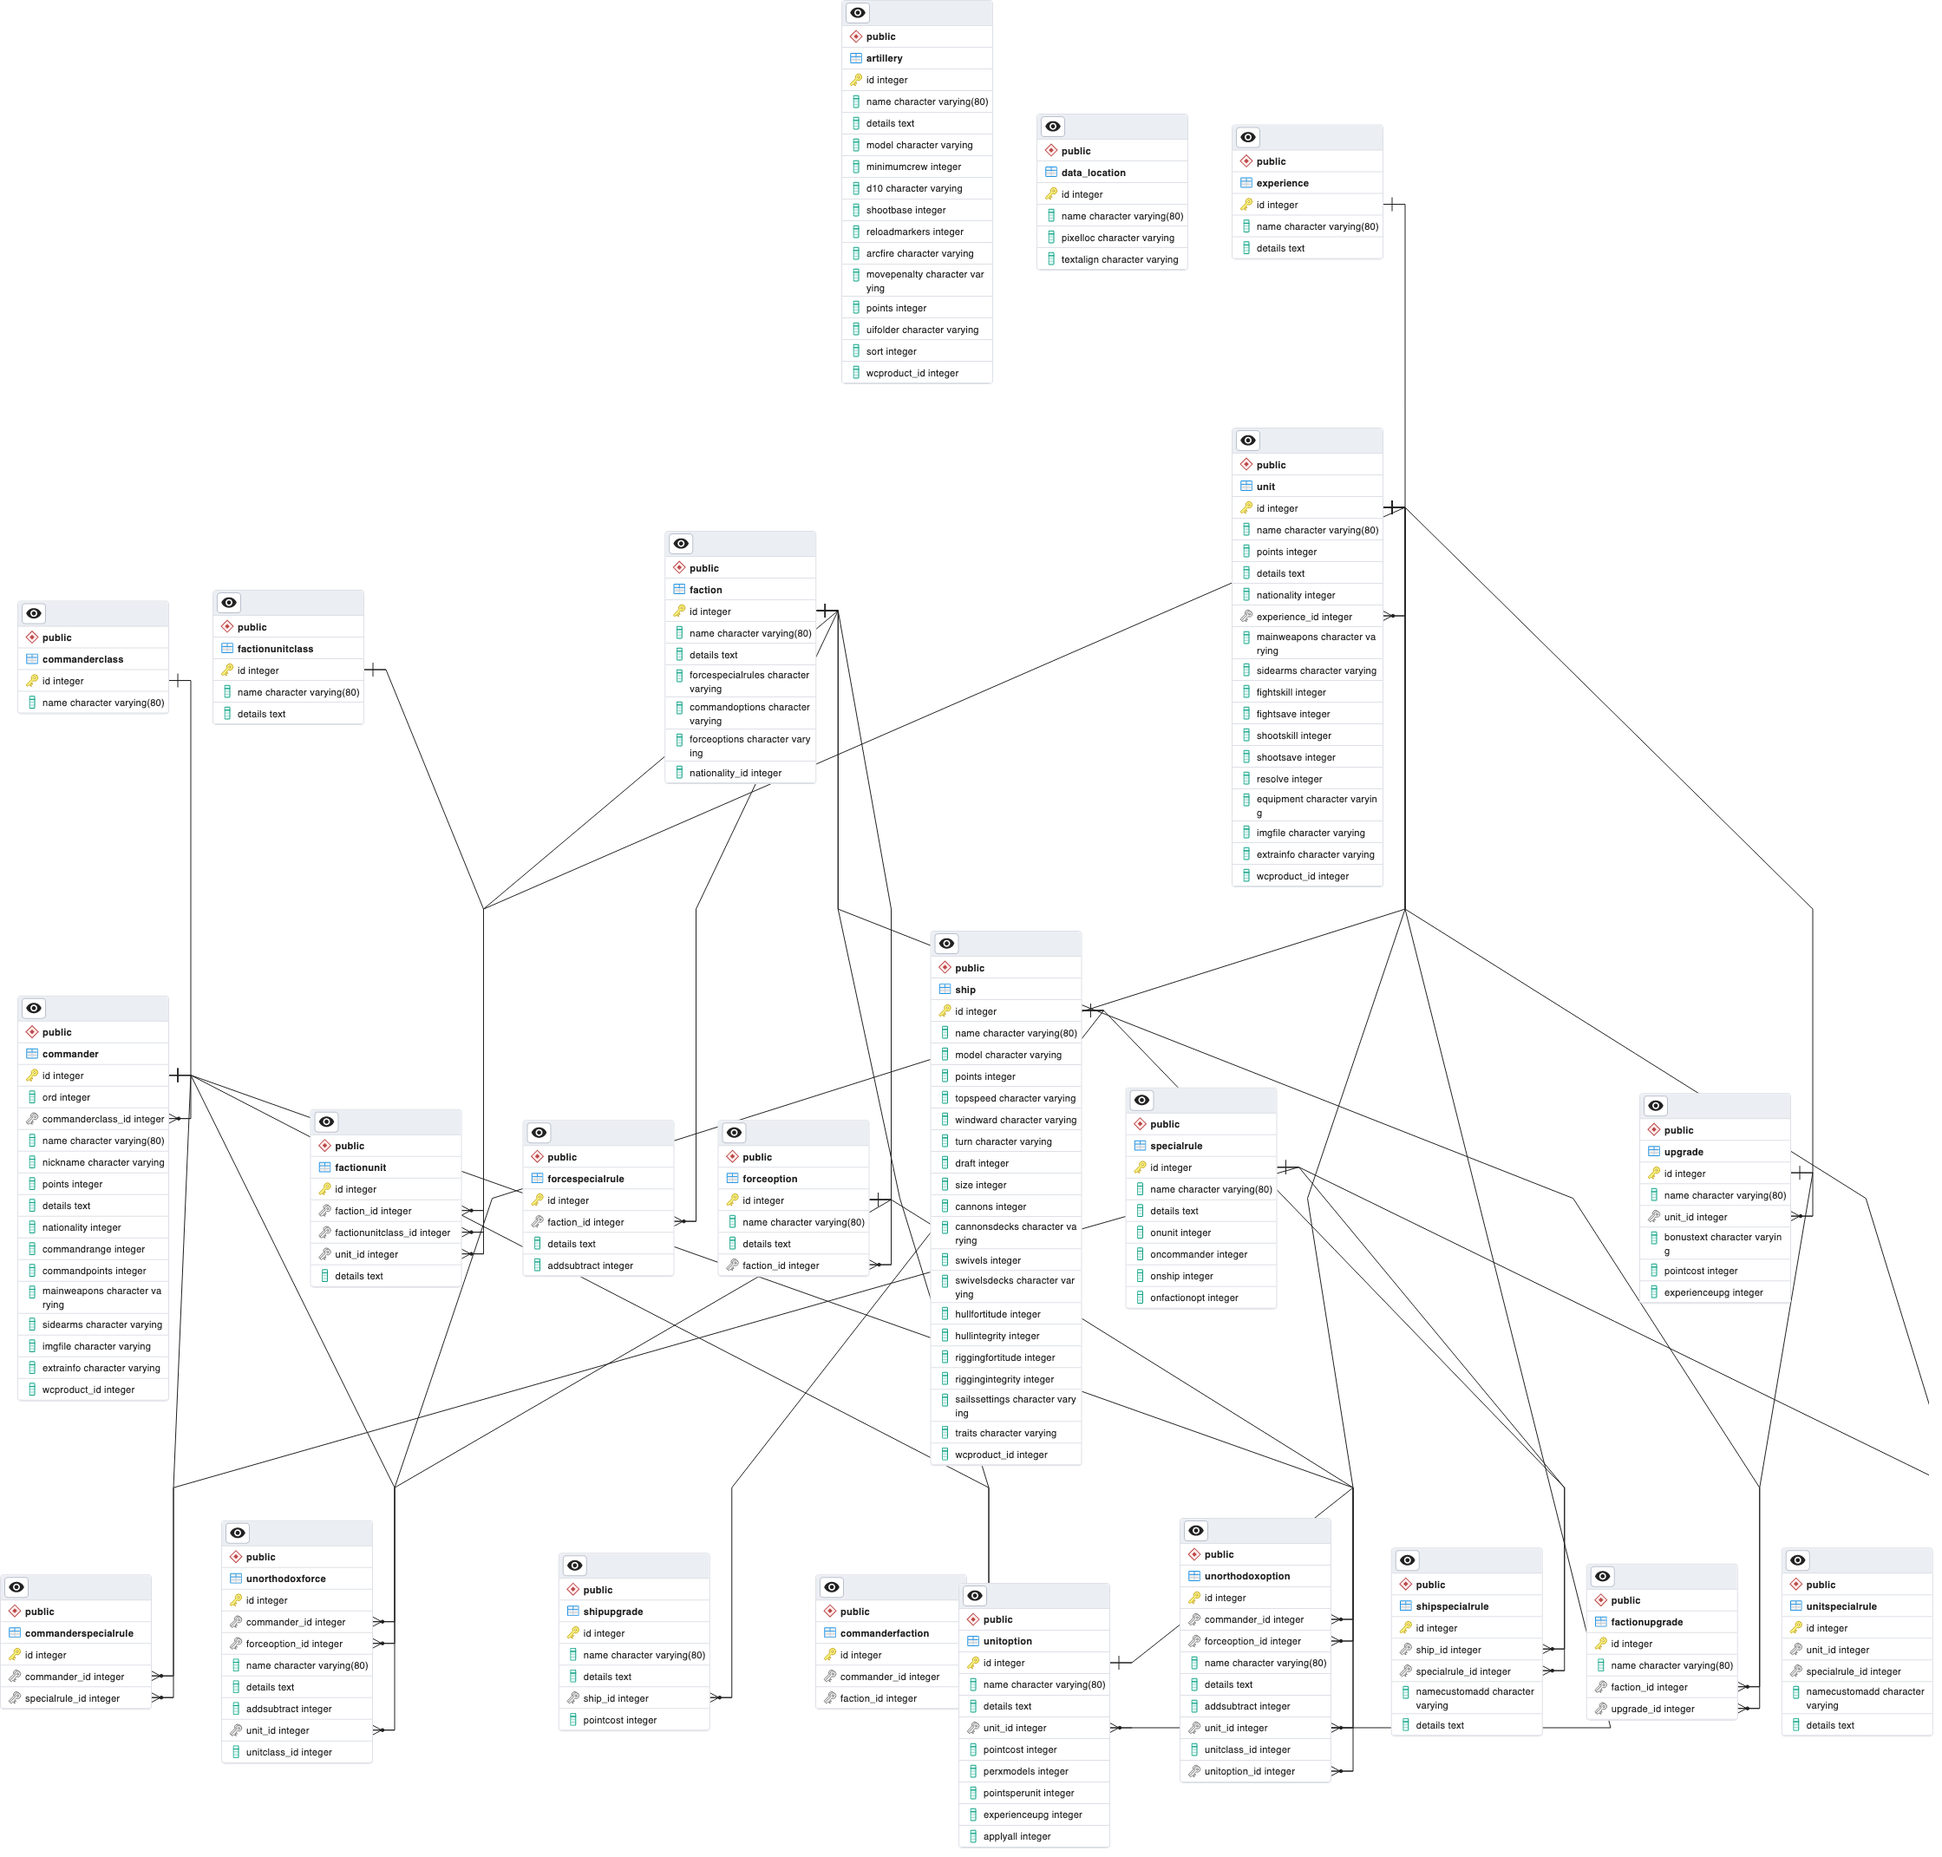
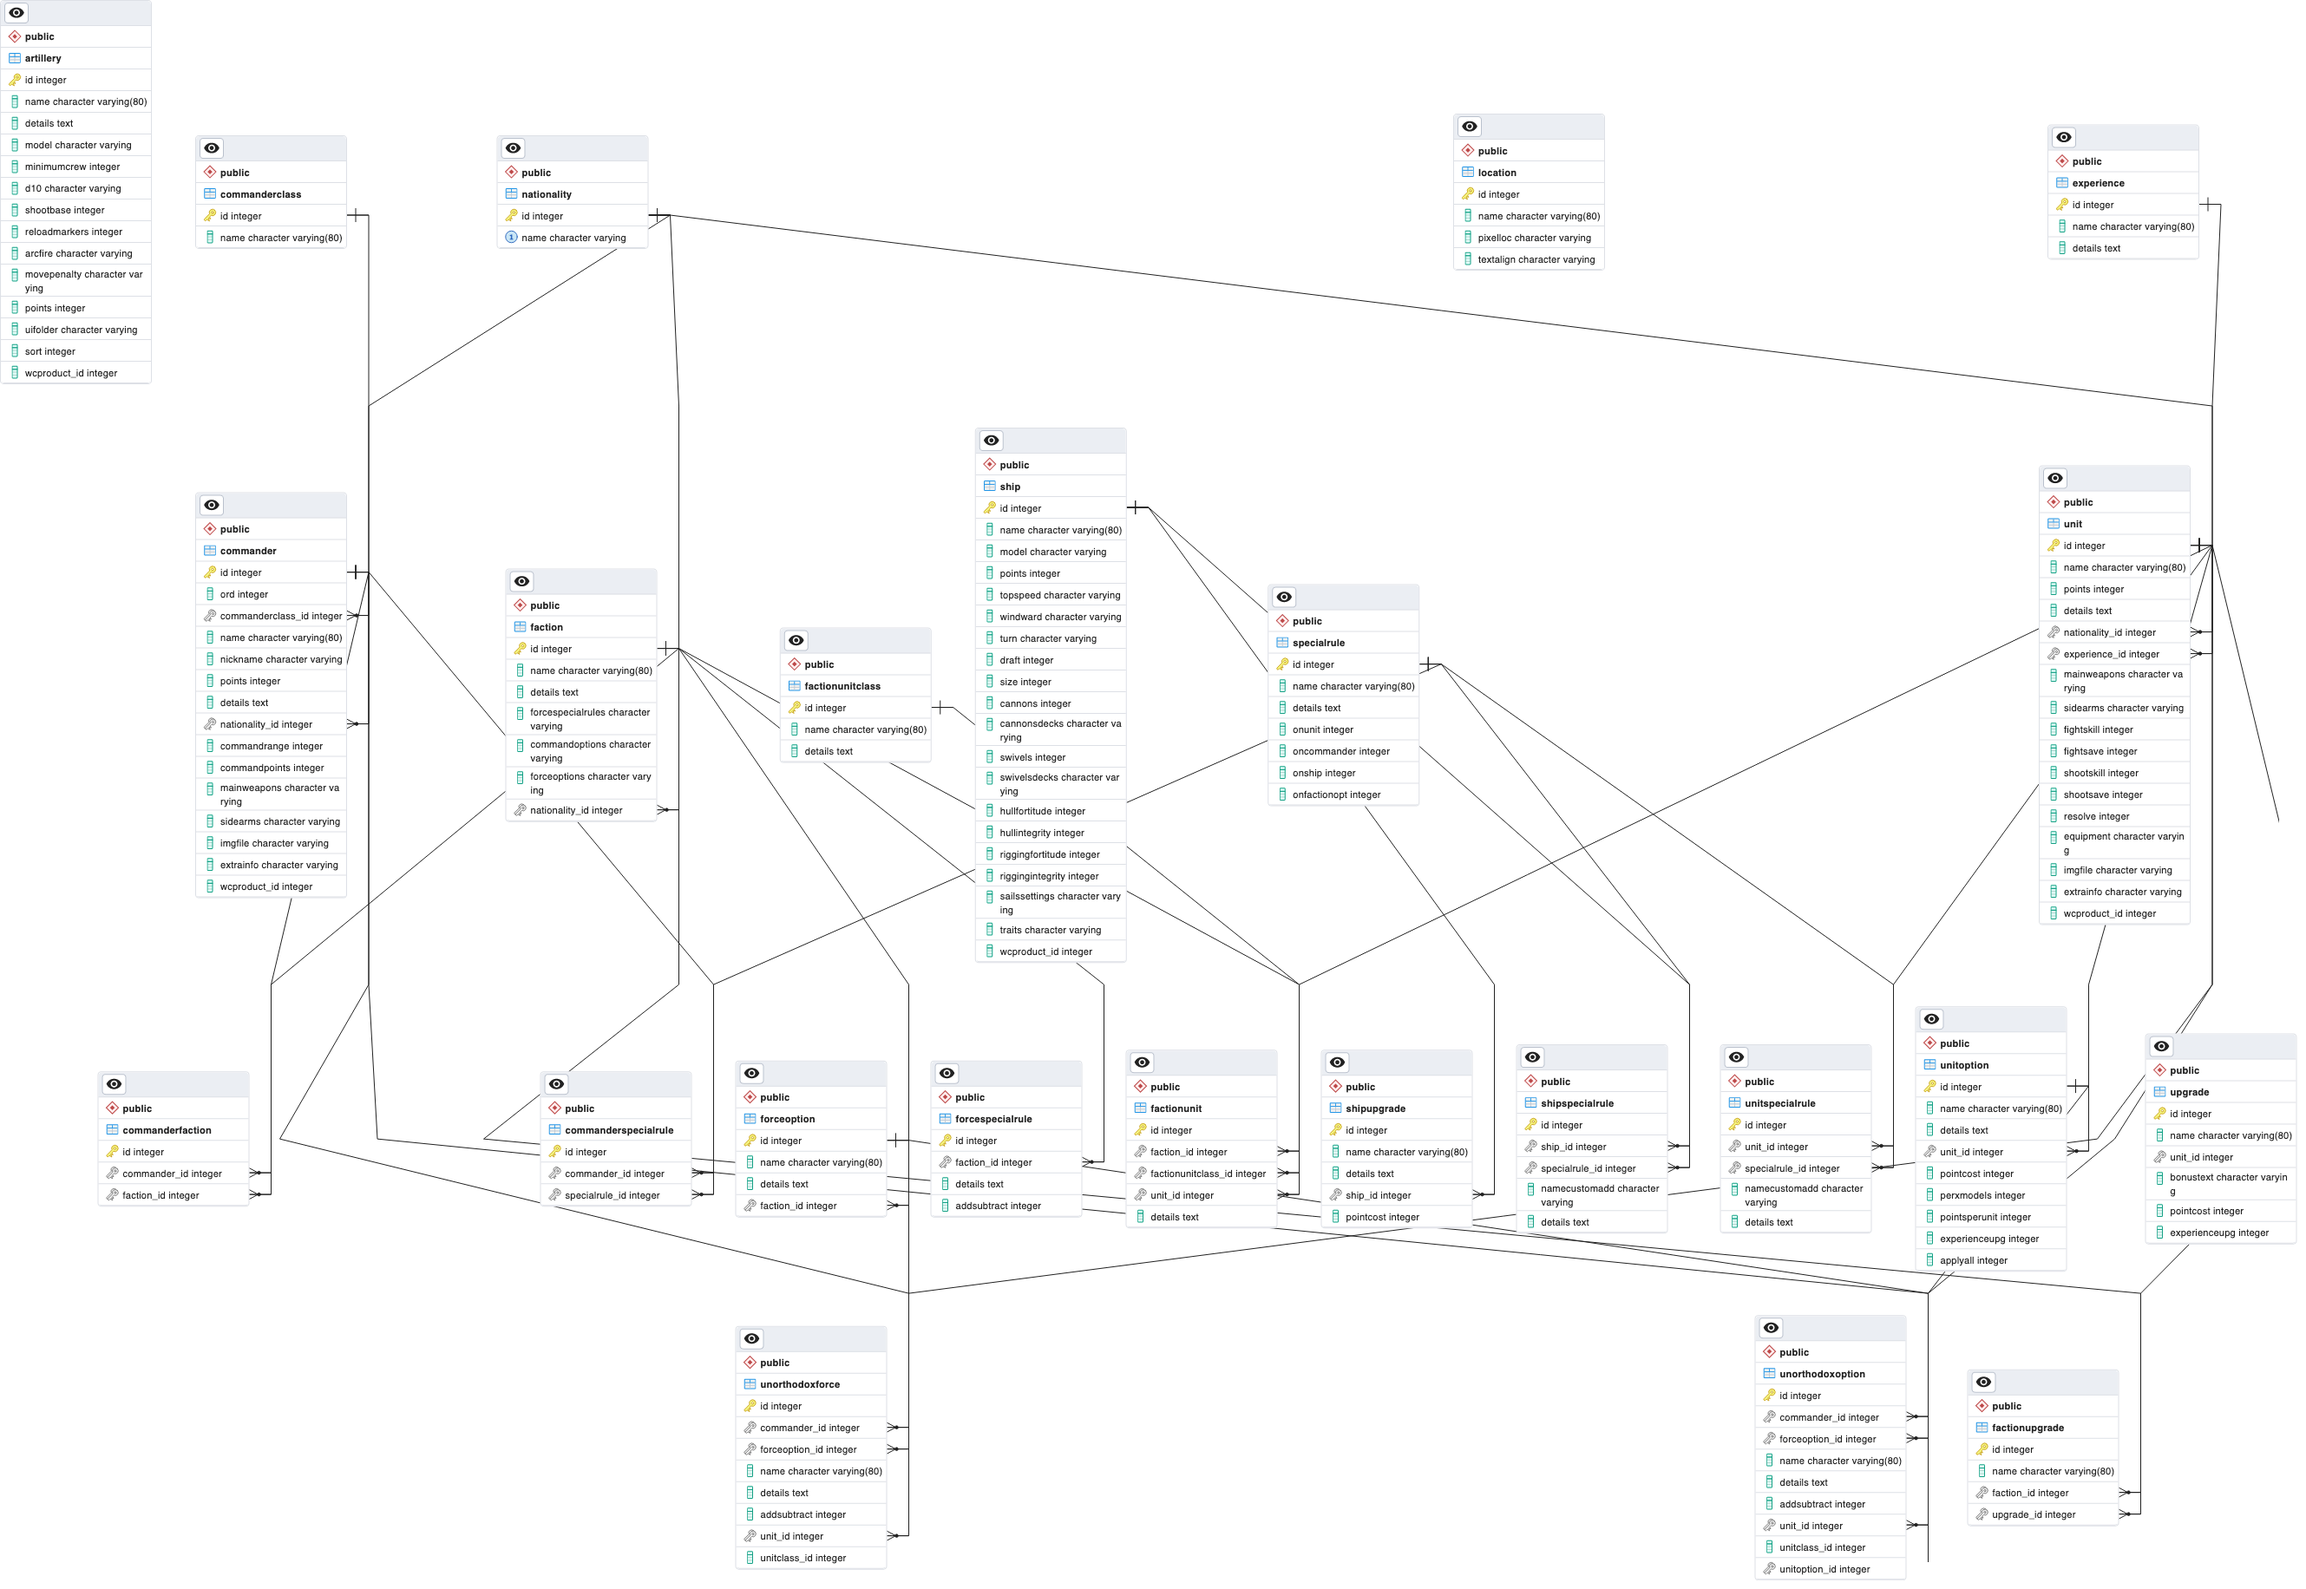
Changed model.py filename to models.py and added relationships. Updated ERD in supplemental folder.

diff --git a/models.py b/models.py
@@ -38,12 +38,14 @@ class Commander(db.Model):
                    primary_key=True,
                    autoincrement=True)
     ord = db.Column(db.Integer)
-    commanderclass = db.Column(db.Integer)
+    commanderclass_id = db.Column(db.Integer, db.ForeignKey(
+        'commanderclass.id', ondelete='SET NULL'))
     name = db.Column(db.VARCHAR)
     nickname = db.Column(db.VARCHAR)
     points = db.Column(db.Integer)
     details = db.Column(db.Text)
-    nationality_id = db.Column(db.Integer)
+    nationality_id = db.Column(db.Integer, db.ForeignKey(
+        'nationality.id', ondelete='SET NULL'))
     commandrange = db.Column(db.Integer)
     commandpoints = db.Column(db.Integer)
     mainweapons = db.Column(db.VARCHAR)
@@ -78,8 +80,10 @@ class CommanderFaction(db.Model):
     id = db.Column(db.Integer,
                    primary_key=True,
                    autoincrement=True)
-    commander_id = db.Column(db.Integer)
-    faction_id = db.Column(db.Integer)
+    commander_id = db.Column(db.Integer, db.ForeignKey(
+        'commander.id', ondelete='CASCADE'))
+    faction_id = db.Column(db.Integer, db.ForeignKey(
+        'faction.id', ondelete='CASCADE'))
 
     def __repr__(self):
         return f'<CommanderFaction {self.id}>'
@@ -93,8 +97,10 @@ class CommanderSpecialrule(db.Model):
     id = db.Column(db.Integer,
                    primary_key=True,
                    autoincrement=True)
-    commander_id = db.Column(db.Integer)
-    specialrule_id = db.Column(db.Integer)
+    commander_id = db.Column(db.Integer, db.ForeignKey(
+        'commander.id', ondelete='CASCADE'))
+    specialrule_id = db.Column(db.Integer, db.ForeignKey(
+        'specialrule.id', ondelete='CASCADE'))
 
     def __repr__(self):
         return f'<CommanderSpecialrule {self.id}>'
@@ -128,7 +134,19 @@ class Faction(db.Model):
     forcespecialrules = db.Column(db.VARCHAR)
     commandoptions = db.Column(db.VARCHAR)
     forceoptions = db.Column(db.VARCHAR)
-    nationality_id = db.Column(db.Integer)
+    nationality_id = db.Column(db.Integer, db.ForeignKey(
+        'nationality.id', ondelete='SET NULL'))
+
+    commander = db.relationship(
+        'Commander',
+        secondary = 'commanderfaction',
+        backref = 'faction'
+    )
+    upgrade = db.relationship(
+        'Upgrade',
+        secondary = 'factionupgrade',
+        backref = 'faction'
+    )
 
     def __repr__(self):
         return f'<Faction {self.id} {self.name} ({self.nationality.name})>'
@@ -142,9 +160,12 @@ class FactionUnit(db.Model):
     id = db.Column(db.Integer,
                    primary_key=True,
                    autoincrement=True)
-    faction_id = db.Column(db.Integer)
-    factionUnitclass = db.Column(db.Integer)
-    unit_id = db.Column(db.Integer)
+    faction_id = db.Column(db.Integer, db.ForeignKey(
+        'faction.id', ondelete='CASCADE'))
+    factionunitclass = db.Column(db.Integer, db.ForeignKey(
+        'factionunitclass.id', ondelete='CASCADE'))
+    unit_id = db.Column(db.Integer, db.ForeignKey(
+        'unit.id', ondelete='CASCADE'))
     details = db.Column(db.Text)
 
     def __repr__(self):
@@ -175,8 +196,10 @@ class FactionUpgrade(db.Model):
                    primary_key=True,
                    autoincrement=True)
     name = db.Column(db.VARCHAR)
-    faction_id = db.Column(db.Integer)
-    upgrade_id = db.Column(db.Integer)
+    faction_id = db.Column(db.Integer, db.ForeignKey(
+        'faction.id', ondelete='CASCADE'))
+    upgrade_id = db.Column(db.Integer, db.ForeignKey(
+        'upgrade.id', ondelete='CASCADE'))
 
     def __repr__(self):
         return f'<FactionUpgrade {self.id} {self.name}>'
@@ -192,7 +215,8 @@ class ForceOption(db.Model):
                    autoincrement=True)
     name = db.Column(db.VARCHAR)
     details = db.Column(db.Text)
-    faction_id = db.Column(db.Integer)
+    faction_id = db.Column(db.Integer, db.ForeignKey(
+        'faction.id', ondelete='CASCADE'))
 
     def __repr__(self):
         return f'<ForceOption {self.id} {self.name}>'
@@ -206,7 +230,8 @@ class ForceSpecialrule(db.Model):
     id = db.Column(db.Integer,
                    primary_key=True,
                    autoincrement=True)
-    faction_id = db.Column(db.Integer)
+    faction_id = db.Column(db.Integer, db.ForeignKey(
+        'faction.id', ondelete='CASCADE'))
     details = db.Column(db.Text)
     addsubstract = db.Column(db.Integer)
 
@@ -272,6 +297,12 @@ class Ship(db.Model):
     traits = db.Column(db.VARCHAR)
     wcproduct_id = db.Column(db.Integer)
 
+    upgrade = db.relationship(
+        'Upgrade',
+        secondary = 'shipupgrade',
+        backref = 'ship'
+    )    
+
     def __repr__(self):
         return f'<Ship {self.id} {self.name}>'
 
@@ -284,8 +315,10 @@ class ShipSpecialrule(db.Model):
     id = db.Column(db.Integer,
                    primary_key=True,
                    autoincrement=True)
-    ship_id = db.Column(db.Integer)
-    specialrule_id = db.Column(db.Integer)
+    ship_id = db.Column(db.Integer, db.ForeignKey(
+        'ship.id', ondelete='CASCADE'))
+    specialrule_id = db.Column(db.Integer, db.ForeignKey(
+        'specialrule.id', ondelete='CASCADE'))
     namecustomadd = db.Column(db.VARCHAR)
     details = db.Column(db.Text)
 
@@ -303,7 +336,8 @@ class ShipUpgrade(db.Model):
                    autoincrement=True)
     name = db.Column(db.VARCHAR)
     details = db.Column(db.Text)
-    ship_id = db.Column(db.Integer)
+    ship_id = db.Column(db.Integer, db.ForeignKey(
+        'ship.id', ondelete='CASCADE'))
     pointcost = db.Column(db.Integer)
 
     def __repr__(self):
@@ -325,6 +359,27 @@ class Specialrule(db.Model):
     onship = db.Column(db.Integer)
     onfactionopt = db.Column(db.Integer)
 
+    commander = db.relationship(
+        'Commander',
+        secondary = 'commanderspecialrule',
+        backref = 'specialrule'
+    )
+    force = db.relationship(
+        'Force',
+        secondary = 'forcespecialrule',
+        backref = 'specialrule'
+    )
+    ship = db.relationship(
+        'Ship',
+        secondary = 'shipspecialrule',
+        backref = 'specialrule'
+    )
+    unit = db.relationship(
+        'Unit',
+        secondary = 'unitspecialrule',
+        backref = 'specialrule'
+    )
+
     def __repr__(self):
         return f'<Specialrule {self.id} {self.name}>'
 
@@ -340,8 +395,10 @@ class Unit(db.Model):
     name = db.Column(db.VARCHAR)
     points = db.Column(db.Integer)
     details = db.Column(db.Text)
-    nationality_id = db.Column(db.Integer)
-    experience_id = db.Column(db.Integer)
+    nationality_id = db.Column(db.Integer, db.ForeignKey(
+        'nationality.id', ondelete='CASCADE'))
+    experience_id = db.Column(db.Integer, db.ForeignKey(
+        'experience.id', ondelete='CASCADE'))
     mainweapons = db.Column(db.VARCHAR)
     sidearms = db.Column(db.VARCHAR)
     fightskill = db.Column(db.Integer)
@@ -368,7 +425,8 @@ class UnitOption(db.Model):
                    autoincrement=True)
     name = db.Column(db.VARCHAR)
     details = db.Column(db.Text)
-    unit_id = db.Column(db.Integer)
+    unit_id = db.Column(db.Integer, db.ForeignKey(
+        'unit.id', ondelete='SET NULL'))
     pointcost = db.Column(db.Integer)
     perxmodels = db.Column(db.Integer)
     pointsperunit = db.Column(db.Integer)
@@ -387,8 +445,10 @@ class UnitSpecialrule(db.Model):
     id = db.Column(db.Integer,
                    primary_key=True,
                    autoincrement=True)
-    unit_id = db.Column(db.Integer)
-    specialrule_id = db.Column(db.Integer)
+    unit_id = db.Column(db.Integer, db.ForeignKey(
+        'unit.id', ondelete='CASCADE'))
+    specialrule_id = db.Column(db.Integer, db.ForeignKey(
+        'specialrule.id', ondelete='CASCADE'))
     namecustomadd = db.Column(db.VARCHAR)
     details = db.Column(db.Text)
 
@@ -404,12 +464,15 @@ class UnorthodoxForce(db.Model):
     id = db.Column(db.Integer,
                    primary_key=True,
                    autoincrement=True)
-    commander_id = db.Column(db.Integer)
-    forceoption_id = db.Column(db.Integer)
+    commander_id = db.Column(db.Integer, db.ForeignKey(
+        'commander.id', ondelete='SET NULL'))
+    forceoption_id = db.Column(db.Integer, db.ForeignKey(
+        'forceoption.id', ondelete='SET NULL'))
     name = db.Column(db.VARCHAR)
     details = db.Column(db.Text)
     addsubtract = db.Column(db.Integer)
-    unit_id = db.Column(db.Integer)
+    unit_id = db.Column(db.Integer, db.ForeignKey(
+        'unit.id', ondelete='SET NULL'))
     unitclass_id = db.Column(db.Integer)
 
     def __repr__(self):
@@ -424,14 +487,18 @@ class UnorthodoxOption(db.Model):
     id = db.Column(db.Integer,
                    primary_key=True,
                    autoincrement=True)
-    commander_id = db.Column(db.Integer)
-    forceoption_id = db.Column(db.Integer)
+    commander_id = db.Column(db.Integer, db.ForeignKey(
+        'commander.id', ondelete='SET NULL'))
+    forceoption_id = db.Column(db.Integer, db.ForeignKey(
+        'forceoption.id', ondelete='SET NULL'))
     name = db.Column(db.VARCHAR)
     details = db.Column(db.Text)
     addsubtract = db.Column(db.Integer)
-    unit_id = db.Column(db.Integer)
+    unit_id = db.Column(db.Integer, db.ForeignKey(
+        'unit.id', ondelete='SET NULL'))
     unitclass_id = db.Column(db.Integer)
-    unit_option_id = db.Column(db.Integer)
+    unitoption_id = db.Column(db.Integer, db.ForeignKey(
+        'unitoption.id', ondelete='SET NULL'))
 
     def __repr__(self):
         return f'<UnorthodoxOption {self.id} {self.name}>'
@@ -446,7 +513,8 @@ class Upgrade(db.Model):
                    primary_key=True,
                    autoincrement=True)
     name = db.Column(db.VARCHAR)
-    unit_id = db.Column(db.Integer)
+    unit_id = db.Column(db.Integer, db.ForeignKey(
+        'unit.id', ondelete='SET NULL'))
     bonustext = db.Column(db.VARCHAR)
     pointcost = db.Column(db.Integer)
     experienceupg = db.Column(db.Integer)
